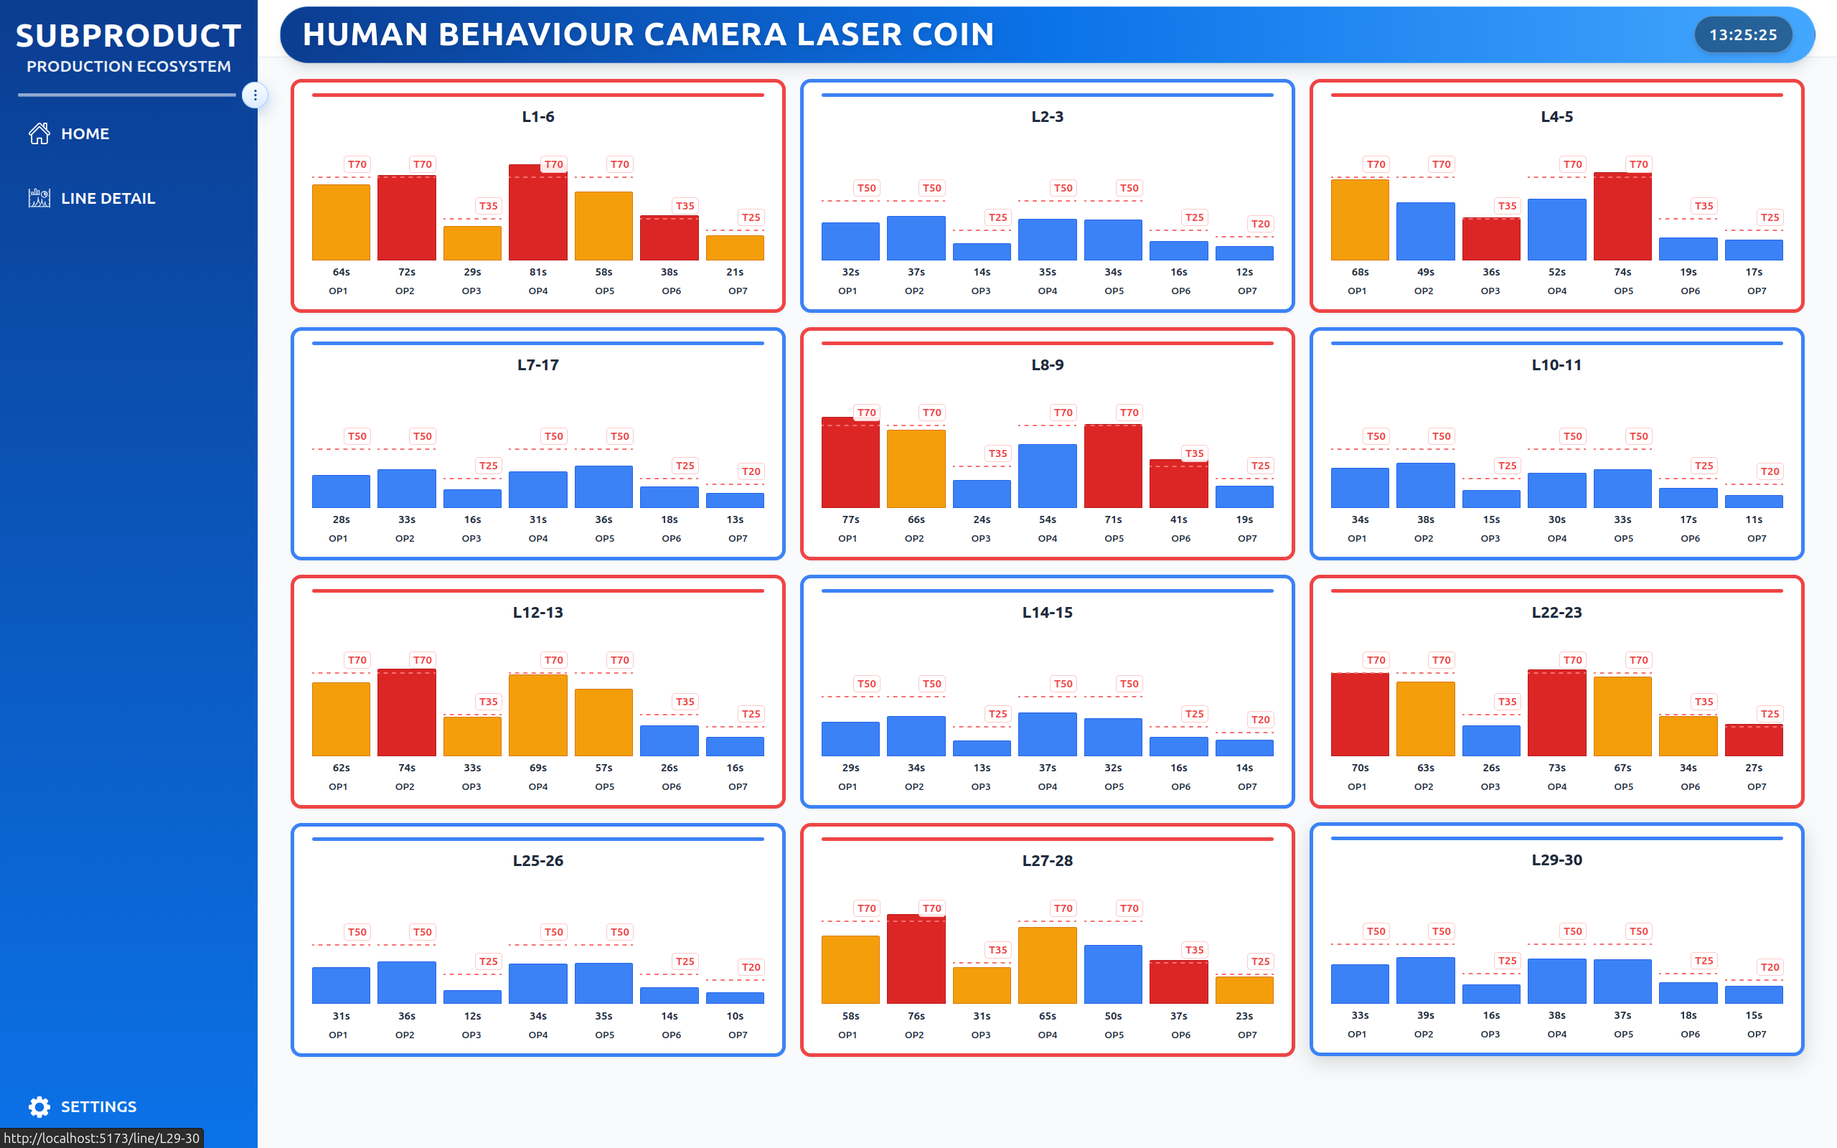
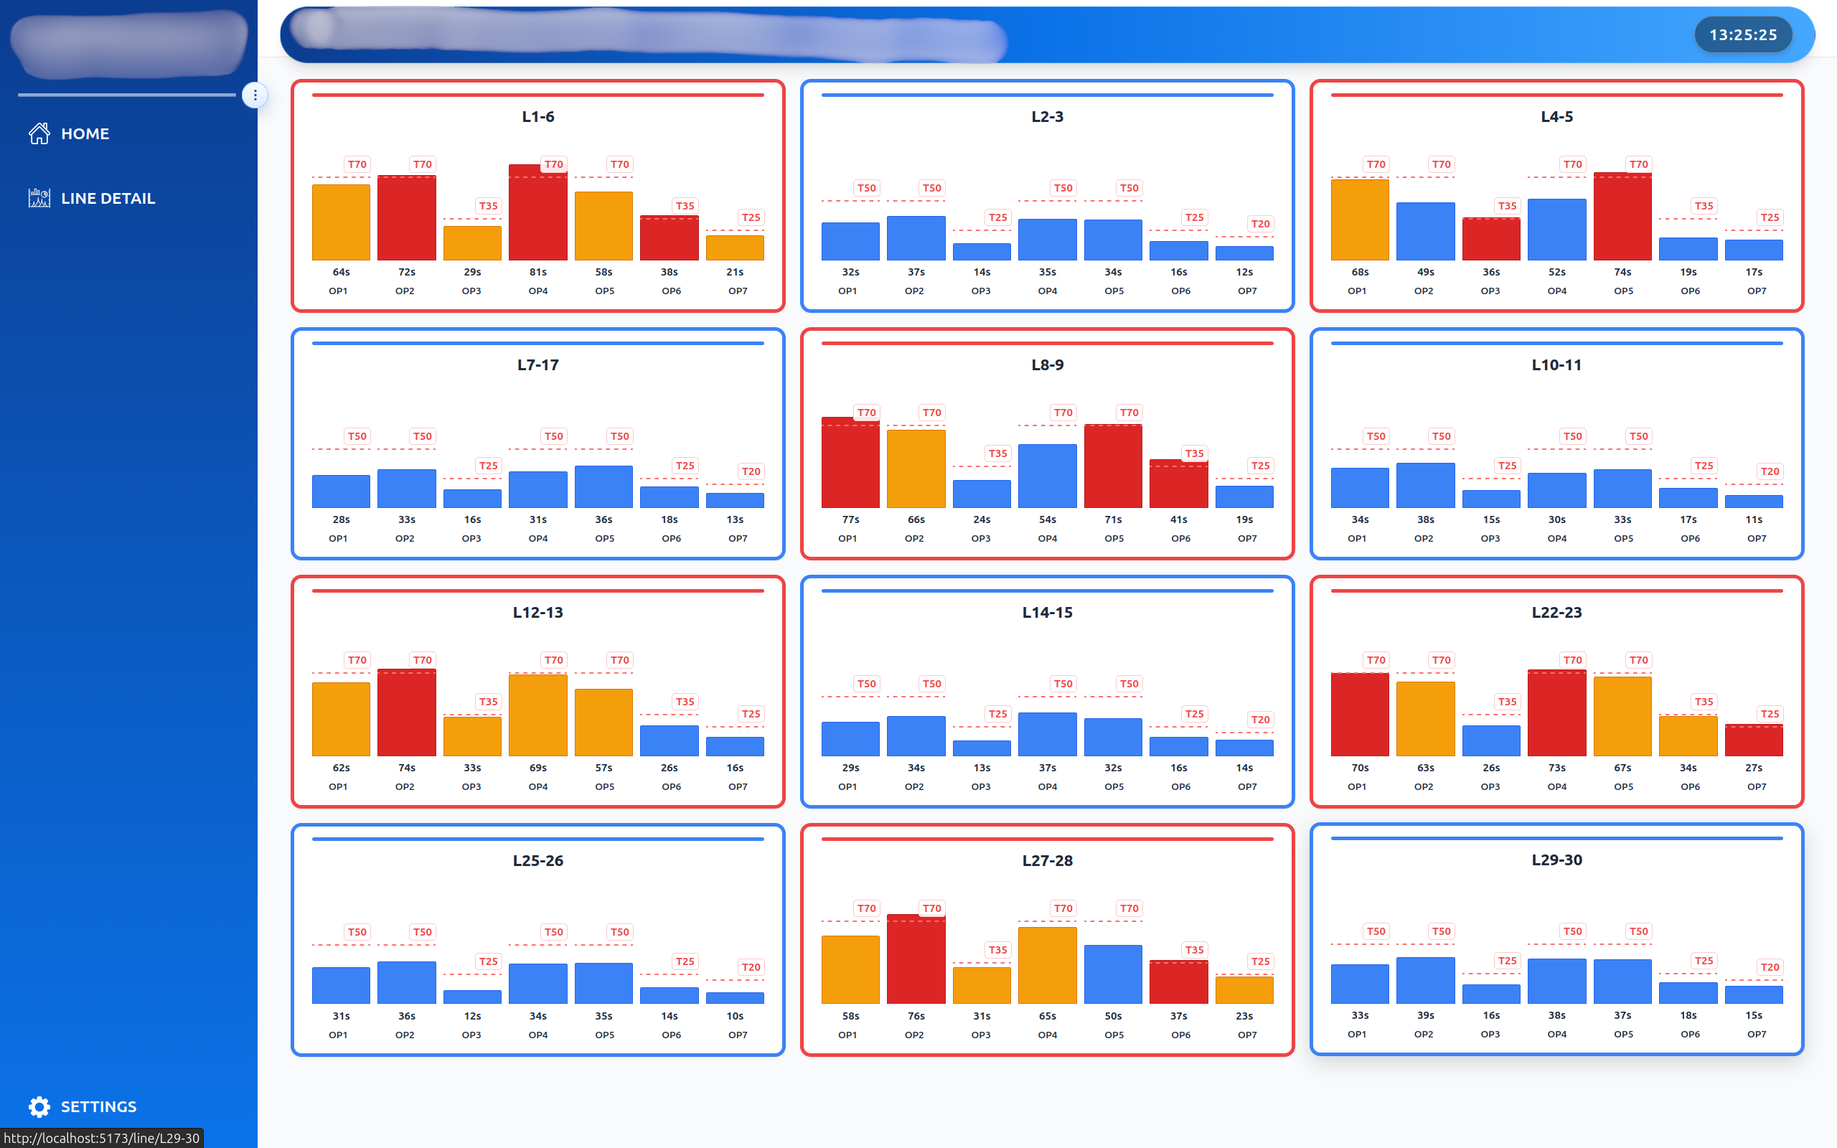
update

Changed region(s): [[0.0, 0.0, 0.5625, 0.0938]]

diff --git a/src/components/Projects.tsx b/src/components/Projects.tsx
@@ -34,6 +34,15 @@ type ProjectGalleryItem = {
   phase: string;
   sensitive?: boolean;
   sensitivityNote?: string;
+  redactionZones?: RedactionZone[];
+};
+
+type RedactionZone = {
+  top: string;
+  left: string;
+  width: string;
+  height: string;
+  rounded?: string;
 };
 
 type Project = {
@@ -58,6 +67,7 @@ type ProjectVisualProps = {
   alt: string;
   sensitive?: boolean;
   sensitivityNote?: string;
+  redactionZones?: RedactionZone[];
   className?: string;
   imgClassName?: string;
 };
@@ -67,9 +77,13 @@ function ProjectVisual({
   alt,
   sensitive = false,
   sensitivityNote,
+  redactionZones,
   className = '',
   imgClassName = '',
 }: ProjectVisualProps) {
+  const hasSelectiveRedaction = !!redactionZones?.length;
+  const shouldRedact = sensitive || hasSelectiveRedaction;
+
   return (
     <div className={`relative overflow-hidden ${className}`}>
       <img
@@ -79,13 +93,32 @@ function ProjectVisual({
         referrerPolicy="no-referrer"
       />
 
-      {sensitive && (
+      {hasSelectiveRedaction && (
+        <div className="absolute inset-0 pointer-events-none">
+          {redactionZones.map((zone, index) => (
+            <div
+              key={`${src}-redaction-${index}`}
+              className={`absolute overflow-hidden border border-white/20 bg-white/10 shadow-[0_0_0_1px_rgba(15,23,42,0.08)] backdrop-blur-xl ${zone.rounded || 'rounded-2xl'}`}
+              style={{
+                top: zone.top,
+                left: zone.left,
+                width: zone.width,
+                height: zone.height,
+              }}
+            >
+              <div className="absolute inset-0 bg-slate-950/12" />
+            </div>
+          ))}
+        </div>
+      )}
+
+      {shouldRedact && (
         <>
-          <div className="absolute inset-0 bg-slate-950/45" />
-          <div className="absolute inset-0 bg-[radial-gradient(circle_at_top,rgba(34,211,238,0.22),transparent_45%),linear-gradient(to_bottom,rgba(15,23,42,0.18),rgba(15,23,42,0.82))]" />
+          {sensitive && <div className="absolute inset-0 bg-slate-950/45" />}
+          <div className={`absolute inset-0 ${sensitive ? 'bg-[radial-gradient(circle_at_top,rgba(34,211,238,0.22),transparent_45%),linear-gradient(to_bottom,rgba(15,23,42,0.18),rgba(15,23,42,0.82))]' : 'bg-gradient-to-t from-slate-950/60 via-transparent to-transparent'}`} />
           <div className="absolute inset-x-0 bottom-0 p-4 sm:p-5">
             <Badge variant="secondary" className="mb-2 bg-white/90 text-[10px] font-semibold uppercase tracking-[0.22em] text-slate-800">
-              Confidential View Hidden
+              {sensitive ? 'Confidential View Hidden' : 'Sensitive Areas Masked'}
             </Badge>
             <p className="max-w-md text-xs leading-5 text-white/92 sm:text-sm">
               {sensitivityNote || 'Production-floor details are intentionally anonymized while preserving the workflow context.'}
@@ -164,8 +197,6 @@ const projects: Project[] = [
         title: 'Edge Monitoring Workspace',
         description: 'The production-side application monitors live camera feeds and operator activity in real time, becoming the main workspace for cycle-time tracking on the line.',
         phase: 'Edge Application',
-        sensitive: true,
-        sensitivityNote: 'The live production-floor feed is hidden to avoid exposing the factory environment, operator layout, and workstation arrangement.',
       },
       {
         src: edge2Image,
@@ -173,8 +204,6 @@ const projects: Project[] = [
         title: 'ROI-Based Detection Flow',
         description: 'This screen shows how object or operator movement is evaluated across configured Region of Interest (ROI) areas to determine the start and end of each work cycle.',
         phase: 'Edge Application',
-        sensitive: true,
-        sensitivityNote: 'The ROI editor still represents the deployment workflow, but the actual shop-floor scene is intentionally concealed for confidentiality.',
       },
       {
         src: dash1Image,
@@ -205,11 +234,11 @@ const projects: Project[] = [
         phase: 'Dashboard',
       },
     ],
-    image: dash1Image,
+    image: edge1Image,
     icon: Cpu,
   },
   {
-    title: 'AMR Queueing & Robot Operations Dashboard',
+    title: 'AMR Queueing & Operations Dashboard',
     category: 'Professional',
     description:
       'Built a robot operations dashboard on top of Pudu Open Server to turn a single-destination pager trigger into a queueing workflow, allowing the robot to continue from the pager point to 3-5 downstream destinations while operators monitor status, journey progress, and execution logs in real time.',
@@ -263,6 +292,11 @@ const projects: Project[] = [
         title: 'Operations Home Dashboard',
         description: 'The main dashboard gives operators a real-time view of robot status, current target, remaining journey, and the overall state of active queue execution.',
         phase: 'Operations',
+        sensitivityNote: 'Brand-specific subproduct naming in the dashboard header and watermark is intentionally masked.',
+        redactionZones: [
+          { top: '2.5%', left: '31%', width: '20%', height: '8%', rounded: 'rounded-xl' },
+          { top: '55%', left: '25%', width: '30%', height: '15%', rounded: 'rounded-3xl' },
+        ],
       },
       {
         src: robotRecipeImage,
@@ -270,6 +304,11 @@ const projects: Project[] = [
         title: 'Queue Recipe Management',
         description: 'Recipes are defined with the pager point as the first trigger and a stacked list of downstream destinations so the robot can continue automatically after the initial hardware call.',
         phase: 'Queueing Logic',
+        sensitivityNote: 'The subproduct label in the page header and watermark is masked while the routing workflow remains visible.',
+        redactionZones: [
+          { top: '2.5%', left: '31%', width: '20%', height: '8%', rounded: 'rounded-xl' },
+          { top: '70%', left: '24%', width: '30%', height: '10%', rounded: 'rounded-3xl' },
+        ],
       },
       {
         src: robotLogImage,
@@ -277,6 +316,11 @@ const projects: Project[] = [
         title: 'Robot Log and Reporting',
         description: 'The logging module captures journey history, status outcomes, and failure context so operations teams can review results and export records when needed.',
         phase: 'Monitoring',
+        sensitivityNote: 'The subproduct label in the page header and watermark is masked while the log data stays readable.',
+        redactionZones: [
+          { top: '2.5%', left: '31%', width: '20%', height: '8%', rounded: 'rounded-xl' },
+          { top: '70%', left: '34%', width: '19%', height: '10%', rounded: 'rounded-3xl' },
+        ],
       },
       {
         src: robotFallbackImage,
@@ -284,6 +328,12 @@ const projects: Project[] = [
         title: 'Safe-Place Recovery Controls',
         description: 'Each robot can be assigned a fallback safe place, helping the system recover more gracefully when a journey is interrupted or needs exception handling.',
         phase: 'Reliability',
+        sensitivityNote: 'Subproduct wording and the Panasonic background logo are masked to avoid exposing internal branding details.',
+        redactionZones: [
+          { top: '2.5%', left: '31%', width: '20%', height: '8%', rounded: 'rounded-xl' },
+          { top: '31%', left: '28%', width: '45%', height: '24%', rounded: 'rounded-[2rem]' },
+          { top: '74%', left: '32%', width: '31%', height: '12%', rounded: 'rounded-3xl' },
+        ],
       },
       {
         src: robotMapImage,
@@ -291,6 +341,11 @@ const projects: Project[] = [
         title: 'Prototype Live Map',
         description: 'A map-based monitoring prototype was prepared to visualize robot movement and position updates, ready as a future operational enhancement even though it was not deployed on the live site.',
         phase: 'Prototype',
+        sensitivityNote: 'The subproduct label in the page header and watermark is masked while the map and status cards remain visible.',
+        redactionZones: [
+          { top: '2.5%', left: '31%', width: '20%', height: '8%', rounded: 'rounded-xl' },
+          { top: '60%', left: '31%', width: '28%', height: '16%', rounded: 'rounded-3xl' },
+        ],
       },
     ],
     image: robotMainDashImage,
@@ -727,6 +782,7 @@ export default function Projects() {
                   alt={selectedProject.gallery?.[selectedGalleryIndex]?.alt || selectedProject.title}
                   sensitive={selectedProject.gallery?.[selectedGalleryIndex]?.sensitive}
                   sensitivityNote={selectedProject.gallery?.[selectedGalleryIndex]?.sensitivityNote}
+                  redactionZones={selectedProject.gallery?.[selectedGalleryIndex]?.redactionZones}
                   className="h-full w-full"
                   imgClassName="h-full w-full object-contain"
                 />
@@ -848,6 +904,7 @@ export default function Projects() {
                               alt={item.alt}
                               sensitive={item.sensitive}
                               sensitivityNote={item.sensitivityNote}
+                              redactionZones={item.redactionZones}
                               className="h-full w-full"
                               imgClassName="h-full w-full object-contain transition-transform duration-300 hover:scale-[1.02]"
                             />
@@ -955,6 +1012,7 @@ export default function Projects() {
                           alt={selectedProject.gallery?.[selectedGalleryIndex]?.alt || selectedProject.title}
                           sensitive={selectedProject.gallery?.[selectedGalleryIndex]?.sensitive}
                           sensitivityNote={selectedProject.gallery?.[selectedGalleryIndex]?.sensitivityNote}
+                          redactionZones={selectedProject.gallery?.[selectedGalleryIndex]?.redactionZones}
                           className="max-h-[50vh] w-auto max-w-full sm:max-h-[56vh]"
                           imgClassName="max-h-[50vh] w-auto max-w-full object-contain sm:max-h-[56vh]"
                         />

diff --git a/src/components/About.tsx b/src/components/About.tsx
@@ -14,14 +14,14 @@ const highlights = [
     description: 'Designing connected monitoring systems and data-driven automation workflows.'
   },
   {
-    icon: Cpu,
-    title: 'Robotics Systems',
-    description: 'Developing intelligent robotic solutions for autonomous operation and real-time control.'
-  },
-  {
     icon: Zap,
     title: 'Sensor Integration',
     description: 'Integrating sensors, devices, and embedded components for reliable field operation.'
+  },
+  {
+    icon: Cpu,
+    title: 'Robotics Systems',
+    description: 'Applying robotics experience when projects require autonomous workflows, device orchestration, or machine-level control.'
   }
 ];
 
@@ -43,13 +43,13 @@ export default function About() {
             </h3>
             <div className="space-y-4 text-base sm:text-[1.05rem] text-muted-foreground leading-relaxed">
               <p>
-                I am an IoT and AI System Engineer with a strong focus on embedded systems, intelligent automation, and connected technologies. My work centers on building smart systems that combine sensor data, edge devices, and software into practical real-world solutions.
+                I am an IoT and AI System Engineer with a strong focus on system integration, connected platforms, and intelligent automation. My work centers on building practical systems that connect sensor data, edge devices, backend services, and user-facing dashboards into one reliable workflow.
               </p>
               <p>
-                With a Master&apos;s degree in Electrical Engineering, I bridge the gap between complex hardware and scalable software. I specialize in sensor integration, hardware-software interfacing, and smart monitoring platforms powered by IoT and AI.
+                With a Master&apos;s degree in Electrical Engineering, I bridge the gap between hardware and scalable software. I specialize in sensor integration, hardware-software interfacing, monitoring platforms, and full-stack implementations powered by IoT and AI.
               </p>
               <p>
-                I build intelligent and reliable systems that help machines and devices operate more efficiently, adapt to data, and deliver meaningful insights in the field.
+                I build reliable systems that help operations run more efficiently, turn machine data into useful insight, and support better decision-making in the field.
               </p>
             </div>
           </motion.div>

diff --git a/src/components/Experience.tsx b/src/components/Experience.tsx
@@ -7,12 +7,12 @@ const experiences = [
     company: "PT Enerjik Prima Presisi",
     period: "Feb 2025 - Present",
     location: "Bandung, Indonesia",
-    description: "Robotics and IoT Engineer specializing in autonomous systems, embedded development, and AI-driven monitoring solutions. Experienced in building end-to-end robotic platforms that integrate hardware, software, and cloud systems, with a strong focus on real-time operations and industrial efficiency optimization.",
+    description: "IoT and systems engineer specializing in system integration, embedded development, and AI-driven monitoring solutions. Experienced in connecting hardware, software, and cloud services into end-to-end operational platforms with a strong focus on real-time visibility and industrial efficiency.",
     tasks: [
+      "Designed and implemented an IoT-based AI vision system using camera-driven detection and analytics, with rule-based evaluation to automate operator performance assessment and establish objective, data-driven KPI measurement where no prior evaluation system existed.",
+      "Engineered scalable embedded and IoT solutions, including hardware-software integration, cloud connectivity, and interactive dashboards, enabling real-time operational insights and system-wide performance monitoring.",
       "Developed an integrated robotic monitoring, logging, and task queuing system that enabled real-time status tracking, dynamic task allocation, and operational diagnostics, significantly improving the efficiency and reliability of autonomous material delivery.",
       "Built end-to-end mapping and localization pipelines for autonomous mobile robots, optimizing navigation routes and reducing delivery cycle time by approximately 70% in internal logistics operations.",
-      "Designed and implemented an IoT-based AI vision system using camera-driven detection and analytics, with rule-based evaluation to automate operator performance assessment and establish objective, data-driven KPI measurement where no prior evaluation system existed.",
-      "Engineered scalable embedded and IoT solutions, including hardware-software integration, cloud connectivity, and interactive dashboards, enabling real-time operational insights and system-wide performance monitoring."
     ]
   }
 ];

diff --git a/src/components/Contact.tsx b/src/components/Contact.tsx
@@ -1,5 +1,5 @@
 import { motion } from 'motion/react';
-import { Mail, MessageSquare, Linkedin } from 'lucide-react';
+import { Mail, MessageSquare, Linkedin, Phone } from 'lucide-react';
 
 export default function Contact() {
   return (
@@ -15,10 +15,22 @@ export default function Contact() {
           <h3 className="section-title mb-6">Let's build something <br /><span className="section-title-accent">intelligent together.</span></h3>
           
           <p className="text-lg text-muted-foreground mb-10 max-w-2xl">
-            If you would like to discuss robotics software, IoT systems, or collaboration opportunities, feel free to reach out via email or LinkedIn.
+            If you would like to discuss system integration, IoT systems, full-stack monitoring platforms, or collaboration opportunities, feel free to reach out via email or LinkedIn.
           </p>
 
           <div className="space-y-6">
+            <div className="tech-border bg-white/72 backdrop-blur-sm p-6 flex items-center gap-4 group">
+              <div className="p-3 rounded-lg bg-primary/10 border border-primary/20 group-hover:bg-primary group-hover:text-primary-foreground transition-all">
+                <Phone className="w-6 h-6" />
+              </div>
+              <div>
+                <p className="text-xs font-mono text-muted-foreground uppercase tracking-widest">Phone / WhatsApp</p>
+                <a href="tel:+6281385998501" className="text-lg font-medium text-slate-800 hover:text-primary transition-colors">
+                  +62 813-8599-8501
+                </a>
+              </div>
+            </div>
+
             <div className="tech-border bg-white/72 backdrop-blur-sm p-6 flex items-center gap-4 group">
               <div className="p-3 rounded-lg bg-primary/10 border border-primary/20 group-hover:bg-primary group-hover:text-primary-foreground transition-all">
                 <Mail className="w-6 h-6" />

diff --git a/src/components/Skills.tsx b/src/components/Skills.tsx
@@ -8,11 +8,11 @@ const skillGroups = [
     title: "Core Strengths",
     icon: Cpu,
     skills: [
-      "Robotics Software", "ROS / ROS2", "Sensor Integration",
-      "Semantic Mapping", "Mapping & Localization", "Autonomous Systems",
-      "Industrial IoT Systems", "Computer Vision", "AI-based Monitoring",
-      "Robot Operations Dashboards", "Real-time Monitoring Platforms",
-      "Backend & Dashboard Development", "Environmental Sensing"
+      "System Integration", "Industrial IoT Systems", "Backend & Frontend Development",
+      "Real-time Monitoring Platforms", "Sensor Integration", "Computer Vision",
+      "AI-based Monitoring", "Full-Stack Application Development", "API & Device Connectivity",
+      "Environmental Sensing", "Robotics Software",
+      "ROS / ROS2", "Semantic Mapping", "Mapping & Localization", "Autonomous Systems"
     ]
   },
   {
@@ -31,9 +31,15 @@ const skillGroups = [
     ]
   },
   {
-    title: "Soft Skills",
+    title: "Working Style",
     icon: Users,
-    skills: ["Leadership", "Communication", "Problem Solving", "Collaboration", "Adaptability"]
+    skills: [
+      "Cross-Functional Collaboration",
+      "Structured Problem Solving",
+      "Technical Communication",
+      "End-to-End Ownership",
+      "Adaptability in New Domains"
+    ]
   }
 ];
 
@@ -52,8 +58,8 @@ export default function Skills() {
               Technical <span className="section-title-accent">Expertise</span>
             </h3>
             <p className="text-muted-foreground max-w-2xl mx-auto">
-              A comprehensive overview of my technical expertise in robotics software, 
-              IoT development, and system integration.
+              A comprehensive overview of my technical expertise in system integration,
+              IoT development, monitoring platforms, and applied automation.
             </p>
           </motion.div>
         </div>

diff --git a/src/components/Hero.tsx b/src/components/Hero.tsx
@@ -36,7 +36,7 @@ export default function Hero() {
             </h2>
             
             <p className="text-base sm:text-lg text-muted-foreground max-w-xl mb-7 sm:mb-8 leading-relaxed">
-              Master&apos;s graduate in Electrical Engineering focused on building intelligent systems through IoT, AI, and embedded technologies. Experienced in sensor integration, smart monitoring, and hardware-software interfacing for reliable real-world automation.
+              Master&apos;s graduate in Electrical Engineering focused on system integration, IoT platforms, and full-stack monitoring solutions. Experienced in connecting devices, data pipelines, dashboards, and embedded systems into reliable real-world automation.
             </p>
             
             <div className="flex flex-col sm:flex-row sm:flex-wrap gap-3 sm:gap-4">
@@ -69,7 +69,7 @@ export default function Hero() {
             <div className="relative w-full aspect-square max-w-[280px] sm:max-w-sm lg:max-w-md mx-auto">
               <div className="absolute inset-0 tech-border bg-white/40 overflow-hidden rounded-3xl">
                 <div className="absolute inset-0 flex items-center justify-center text-muted-foreground/10 font-mono text-8xl rotate-12 select-none pointer-events-none">
-                  ROBOTICS_DEV
+                  SYSTEMS_IO
                 </div>
                 <img 
                   src={profileImage}

diff --git a/src/components/Footer.tsx b/src/components/Footer.tsx
@@ -11,7 +11,7 @@ export default function Footer() {
           <div className="flex items-center gap-2">
             <Cpu className="w-6 h-6 text-primary" />
             <span className="text-lg font-bold tracking-tighter font-mono">
-              LRM<span className="text-primary/50">.SYS</span>
+              LRM<span className="text-primary/50">.System</span>
             </span>
           </div>
           
@@ -32,7 +32,7 @@ export default function Footer() {
         <div className="flex flex-col md:flex-row justify-between items-center gap-4 text-[10px] font-mono text-muted-foreground/50 uppercase tracking-[0.2em]">
           <div>Portfolio_v2.1 // Updated_2026.04.15</div>
           <div>Designed & Developed for Intelligent Systems</div>
-          <div>Focus: IoT, AI & Embedded Systems</div>
+          <div>Focus: Systems Integration, IoT & Full-Stack Platforms</div>
         </div>
       </div>
     </footer>
